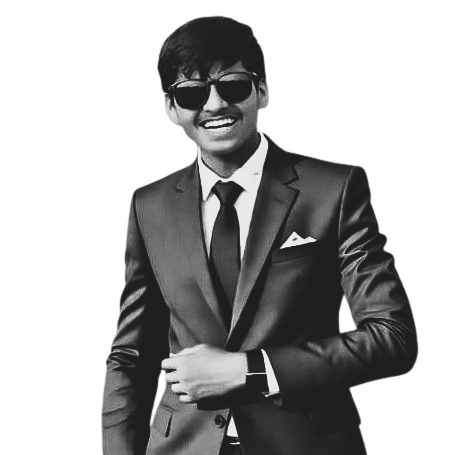
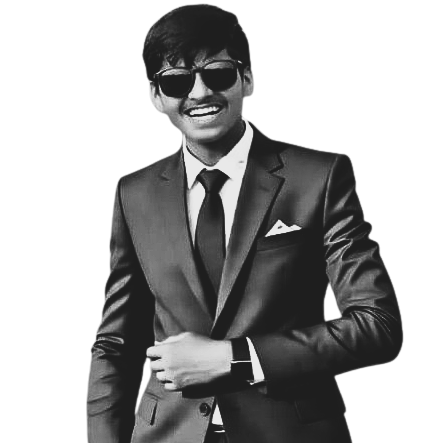
changes in about section

Changed region(s): [[0.1875, 0.0, 0.9062, 1.0], [0.7812, 0.9684, 0.8125, 1.0]]

diff --git a/src/App.js b/src/App.js
@@ -283,7 +283,7 @@ const Terminal = () => {
       case "about":
         output = [
           "Hello! I'm Ronak Jain.",
-          `<div class="about-container"><img src="/ronak.png" alt="A photo of Ronak Jain" class="profile-photo" /><div class="about-text">I'm a passionate and driven Computer Science student at VIT with a specialization in Blockchain Technology.<br/>I thrive on building efficient and user-friendly web applications. My experiences, from winning hackathons to developing scalable solutions during my internships, have solidified my love for solving real-world problems with technology.<br/>I am currently seeking challenging roles in software development where I can contribute my skills in ReactJS, Node.js, and modern web technologies to create impactful digital experiences.</div></div>`,
+          `<div class="about-container"><img src="/ronak.png" alt="A photo of Ronak Jain" class="profile-photo" /><div class="about-text"> - Web Developer with a strong foundation in web technologies and expertise in modern frameworks. With a solid academic background in Computer Science, I have developed a deep understanding of software development principles, allowing me to approach projects with both technical precision and creative problem-solving.</br> - Fueled by an entrepreneurial spirit, I’m passionate about identifying meaningful problems and transforming them into scalable, impactful solutions. I thrive on turning complex concepts into real-world applications—blending strong technical skills with a sharp, results-driven mindset.</br> - Always eager to collaborate and innovate, I’d love to connect with professionals who are equally excited about technology, startups, and building solutions that truly make a difference.</div></div>`,
         ];
         break;
       case "experience":

diff --git a/src/App.css b/src/App.css
@@ -137,10 +137,11 @@ body {
 }
 
 .profile-photo {
-  width: 150px;
-  height: 150px;
+  width: 220px;
+  height: 220px;
   border-radius: 8px;
-  margin-right: 20px;
+  /* margin-right: 10px; */
+  margin-left: -10px;
   object-fit: cover;
   float: left;
 }
